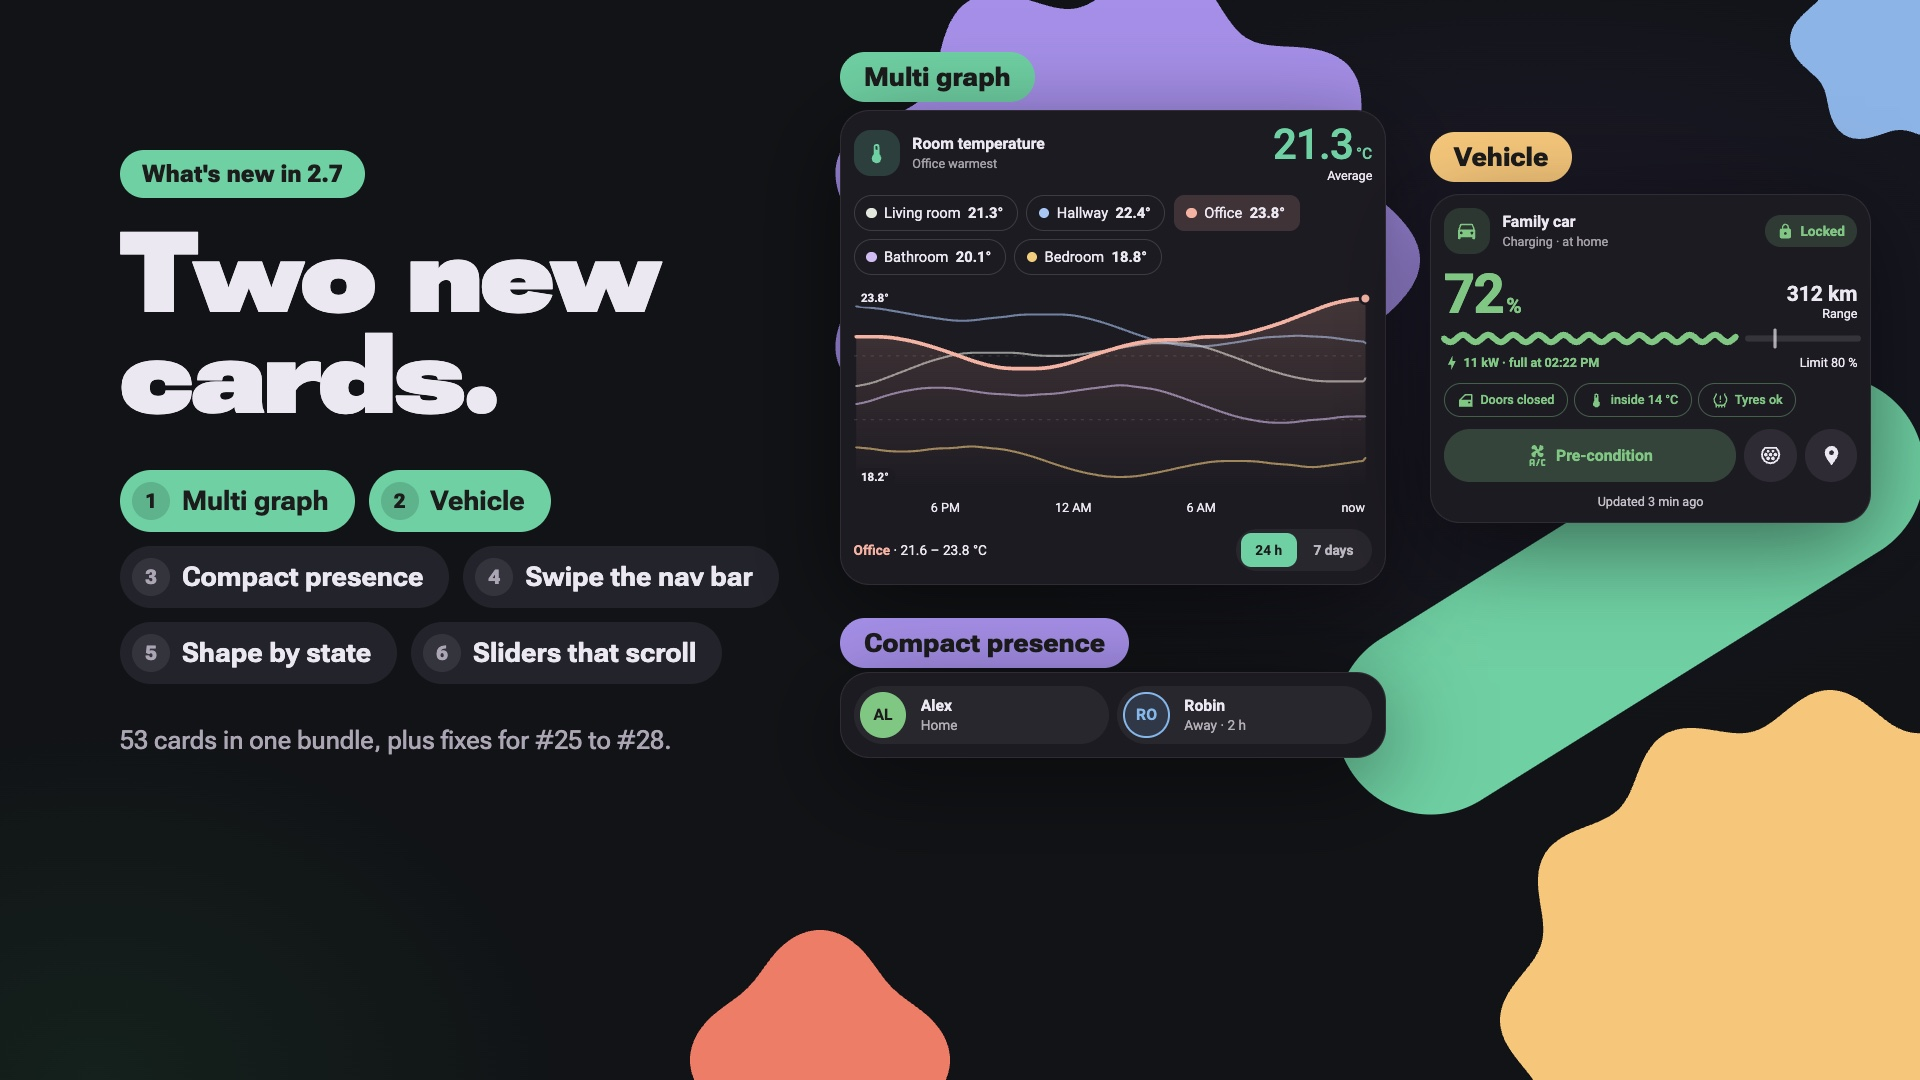
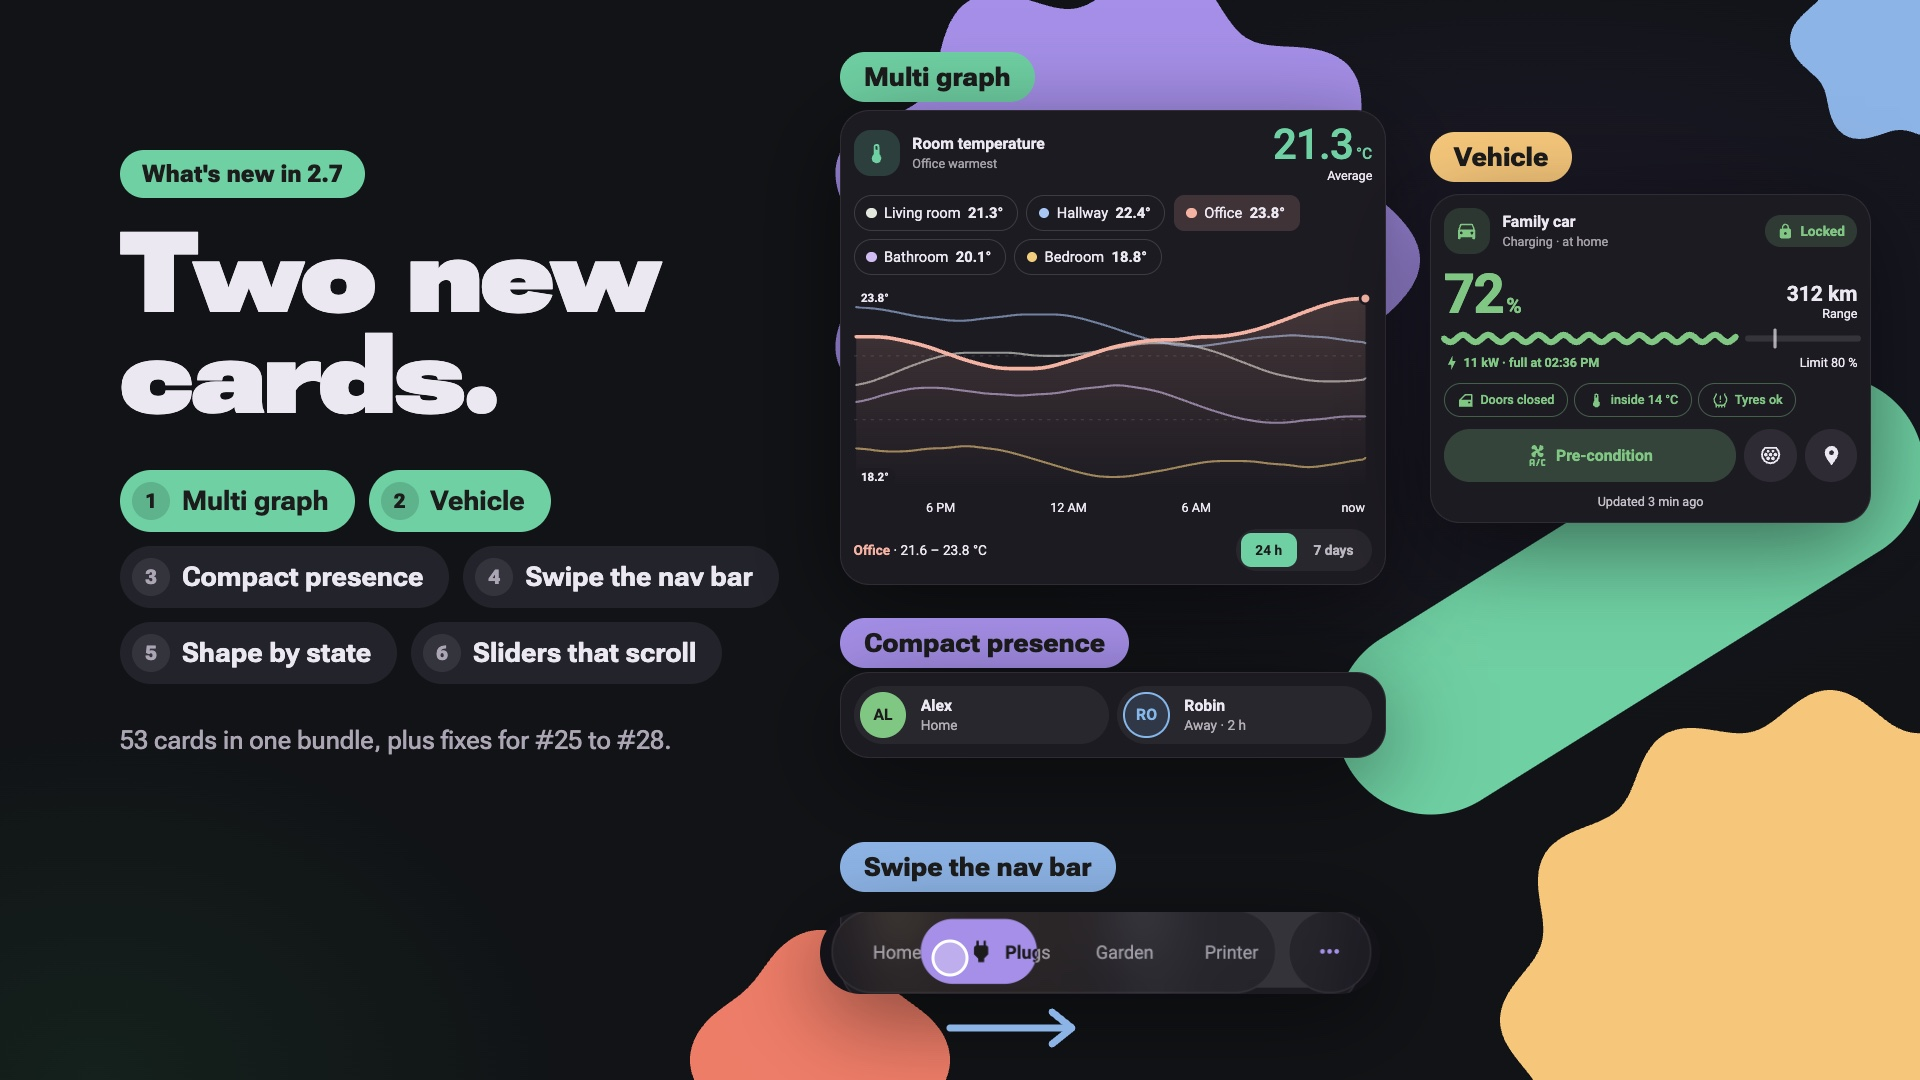
Release image: a held swipe along the nav bar

diff --git a/docs/README.template.md b/docs/README.template.md
@@ -12,7 +12,7 @@ TypeScript + [Lit](https://lit.dev), **without** any dependency on
 (`m3-cards.js`) registers **{{CARD_COUNT}} cards**, all sharing one design language.
 
 <p align="center">
-  <a href="https://github.com/j0sp0r/m3-cards/releases/tag/v2.7.0"><img src="docs/images/release-2.7.jpg" alt="What's new in 2.7: the multi graph card, the vehicle card and the compact presence card" width="880"></a>
+  <a href="https://github.com/j0sp0r/m3-cards/releases/tag/v2.7.0"><img src="docs/images/release-2.7.jpg" alt="What's new in 2.7: the multi graph card, the vehicle card, the compact presence card and a swipe along the nav bar" width="880"></a>
 </p>
 
 <p align="center"><sub>

diff --git a/README.md b/README.md
@@ -12,7 +12,7 @@ TypeScript + [Lit](https://lit.dev), **without** any dependency on
 (`m3-cards.js`) registers **53 cards**, all sharing one design language.
 
 <p align="center">
-  <a href="https://github.com/j0sp0r/m3-cards/releases/tag/v2.7.0"><img src="docs/images/release-2.7.jpg" alt="What's new in 2.7: the multi graph card, the vehicle card and the compact presence card" width="880"></a>
+  <a href="https://github.com/j0sp0r/m3-cards/releases/tag/v2.7.0"><img src="docs/images/release-2.7.jpg" alt="What's new in 2.7: the multi graph card, the vehicle card, the compact presence card and a swipe along the nav bar" width="880"></a>
 </p>
 
 <p align="center"><sub>
